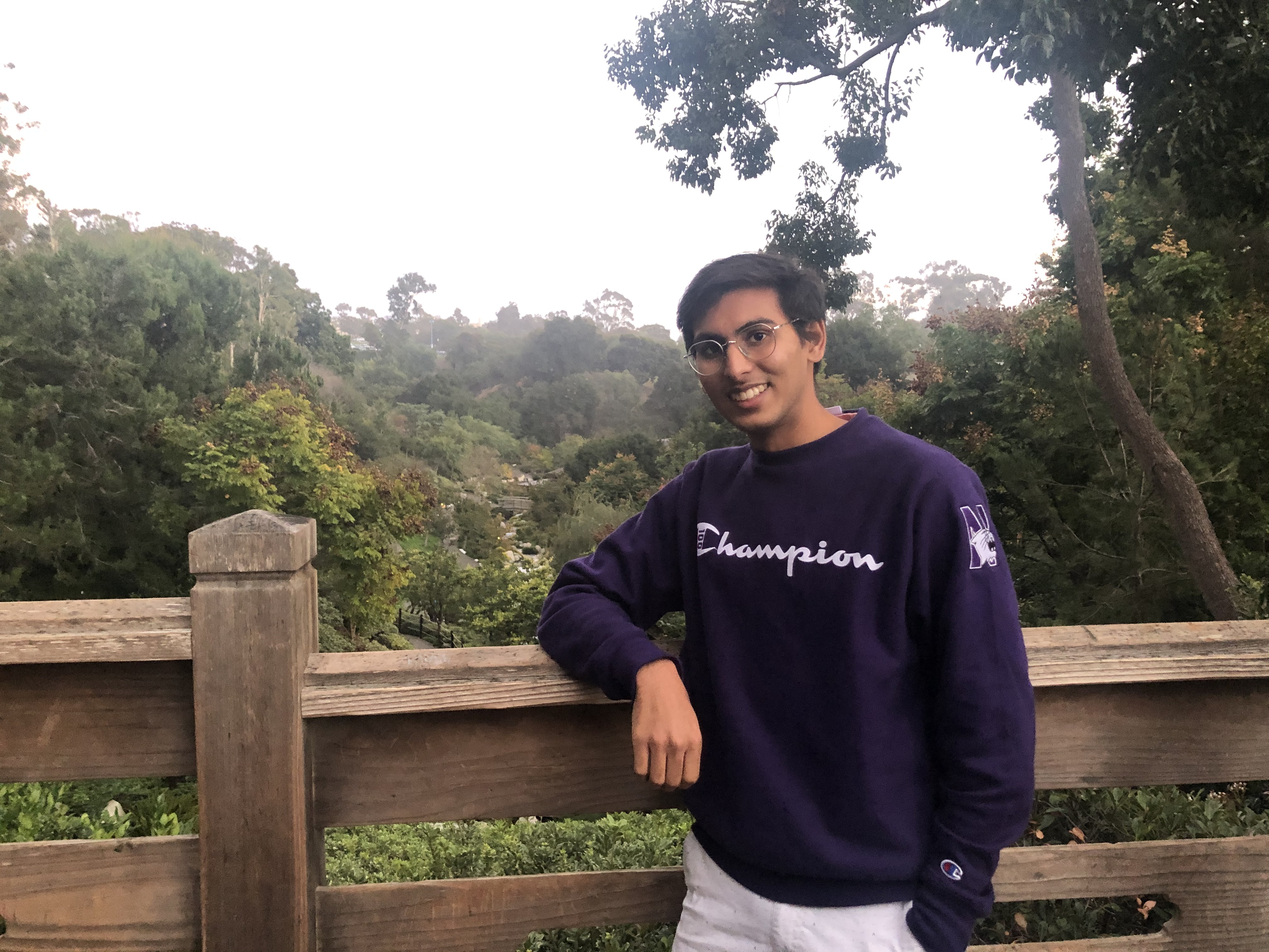
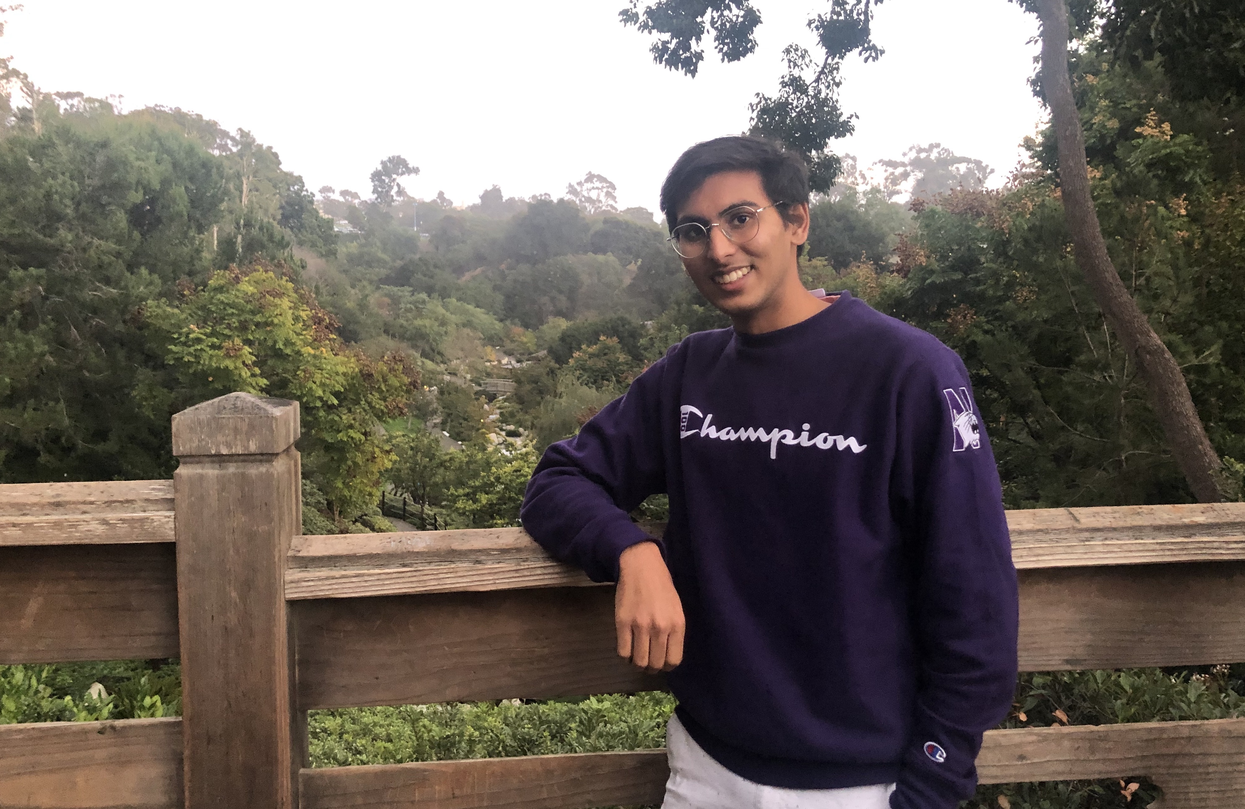
bio done

diff --git a/styles.css b/styles.css
@@ -161,9 +161,9 @@ nav.top-nav a:active{
   margin-left: 50px;
   margin-right: 50px;
   margin-top: -10px;
-  font-family:'Courier New', Courier, monospace;
+  font-family:"Palatino Linotype", "Book Antiqua", Palatino, serif;
   text-align: left;
-  font-size: 14px;
+  font-size: 16px;
   text-shadow:
         0.04em 0 black,
         0 0.04em black,
@@ -203,8 +203,8 @@ nav.top-nav a:active{
 
 .essay-desc{
   color: white;
-  font-family:'Courier New', Courier, monospace;
-  font-size: 14px;
+  font-family: "Palatino Linotype", "Book Antiqua", Palatino, serif;
+  font-size: 16px;
   text-shadow:
         0.04em 0 black,
         0 0.04em black,
@@ -288,9 +288,35 @@ nav.top-nav a:active{
 
 /* Styling for bio page */
 
+.bio-container{
+  margin-top: 125px; /* below the nav bar */
+  display: flex;
+	align-items: center;
+	justify-content: center;
+  flex-direction: column;
+  width: 50%;
+  margin-left: 25%;
+  border: 5px #007304 solid;
+  border-radius: 30px;
+}
+
+.bio-info{
+  background-color: #ddd;
+  width: 100%;
+  height: 100%;
+  font-family:"Palatino Linotype", "Book Antiqua", Palatino, serif;
+  text-align: left;
+  line-height: 125%;
+  border-radius: 0px 0px 25px 25px;
+}
+
+.bio-info p{
+  padding-left: 10px;
+  padding-right: 10px;
+}
+
 #portrait{
-  height: 500px;
+  width: 100%;
   position: relative;
-  top: 200px;
-  left: 500px;
+  border-radius: 25px 25px 0px 0px;
 }

diff --git a/bio.html b/bio.html
@@ -14,9 +14,16 @@
         <li><a href="contact.html">Contact Me</a></li>
       </ul>
   </nav>
-  <div class ="bio">
-    <img src="bio_portrait.jpeg" alt="Portait of Prabhav Jain" id="portrait"></img>
-    <p>Welcome to my personal website.</p>
+  <div class ="bio-container">
+    <img src="bio_landscape.jpeg" alt="Portait of Prabhav Jain" id="portrait"></img>
+    <div class = "bio-info">
+      <p>Hi! I'm Prabhav Jain. I am currently a Sophomore at Northwestern Univeristy,
+        where I am pursuing a B.A. in Computer Science and Philosophy. My passion lies in discovering
+        the intersections of my two distinct disciplines and the pursuit of human flourishing or εὐδαιμονία
+        as the Greek's called it. I am currently looking for summmer internships or interesting projects to
+        work on so please do get in touch with me through the contact me page!
+      </p>
+    </div>
   </div>
 </body>
 </html>
